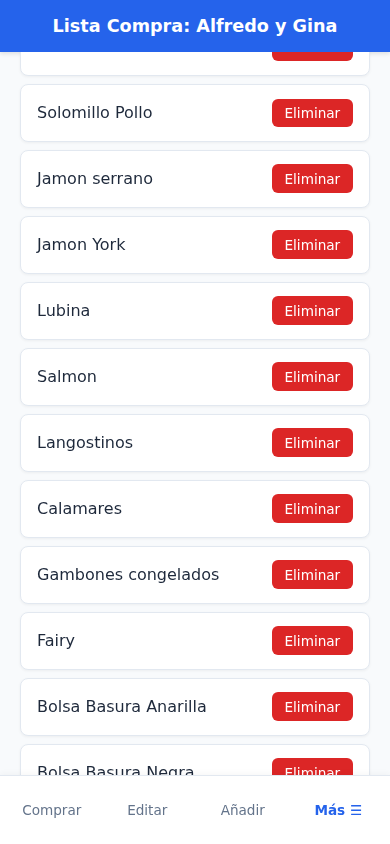
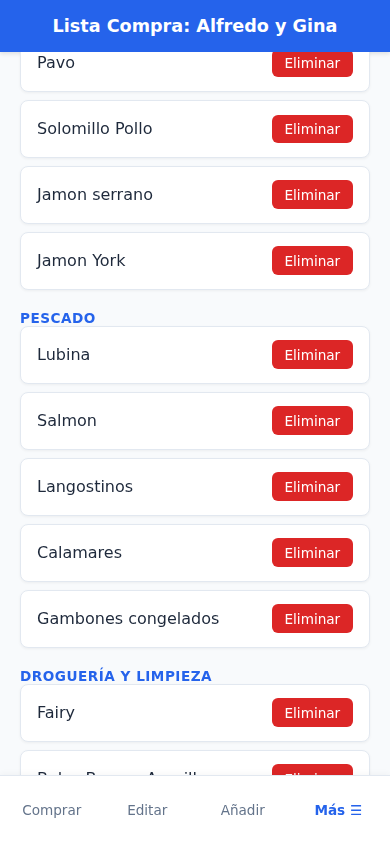
feat: agrupar por categoría en la vista de Borrado de productos
- Se modifica renderizarTodo() para estructurar y agrupar visualmente los productos por categorías con sus respectivos títulos en la vista de Borrado, manteniendo coherencia con el resto de las listas.
- Se actualizan las capturas de pantalla de la carpeta images/ reflejando este último diseño.

diff --git a/index.html b/index.html
@@ -485,7 +485,8 @@
                 contGen.innerHTML += `<div class="categoria-grupo"><div class="categoria-header"><span class="categoria-titulo">${t.label}</span><button class="btn-limpiar-tipo" onclick="window.toggleSeleccionTipoSupabase('${t.id}', !${items.every(i=>i.seleccionado)})">${items.every(i=>i.seleccionado)?'Deseleccionar':'Seleccionar'}</button></div><ul class="editable-list" data-tipo="${t.id}">${htmlItems}</ul></div>`;
 
                 // Render Borrar
-                listaBor.innerHTML += items.map(p => `<li><span>${p.nombre}</span> <button class="btn-danger" onclick="window.borrarElementoSupabase(${p.id})">Eliminar</button></li>`).join('');
+                listaBor.innerHTML += `<div class="categoria-grupo"><div class="categoria-titulo">${t.label}</div><ul>` +
+                    items.map(p => `<li><span>${p.nombre}</span> <button class="btn-danger" onclick="window.borrarElementoSupabase(${p.id})">Eliminar</button></li>`).join('') + `</ul></div>`;
             });
 
             document.getElementById('empty-lista').style.display = haySel ? 'none' : 'block';
@@ -787,7 +788,7 @@
 
         <section id="view-borrar" class="view">
             <h2>Borrar Productos</h2>
-            <ul id="lista-borrar"></ul>
+            <div id="lista-borrar"></div>
             <p id="empty-borrar" class="empty-msg">No hay productos.</p>
         </section>
 
